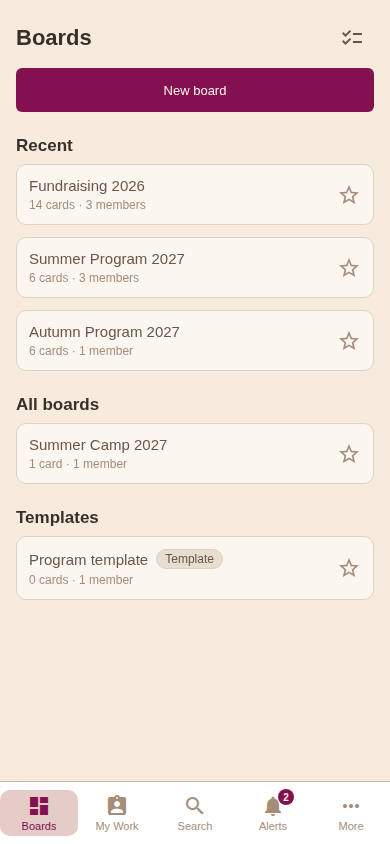
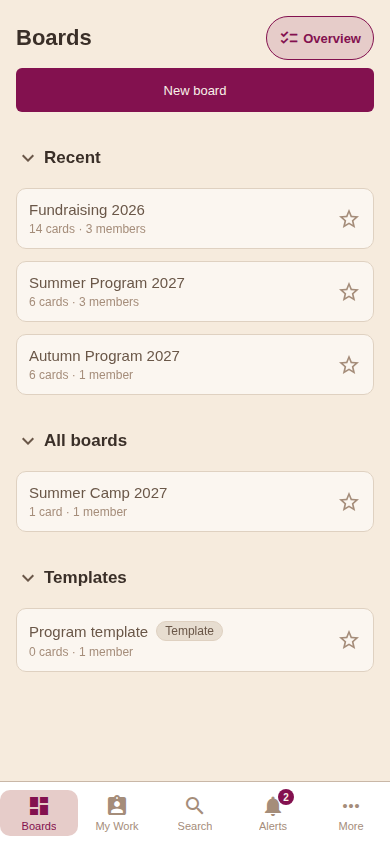
docs: films and pictures for v0.21.0
Every help film re-recorded on main and published (52 cuts, each
file checked against what was served). The manual's pictures retaken;
kept those with a real change: Boards (Overview button, folding
sections), Clone, Lanes (bells, folding), People (#125), the board
settings pages (Lanes and Details rows the old pictures lacked), Help
(the Lanes film) and Stats detail. The rest moved only by dates.

diff --git a/docs/PHASE_STATUS.md b/docs/PHASE_STATUS.md
@@ -59,23 +59,13 @@ When a release changes what an old build gets wrong, raise the version floor
 to it last, once the web, Play and TestFlight have it (`docs/DEPLOY.md`
 § Retiring old builds).
 
-**Owed now: nothing.** v0.20.0 recorded every film (three of them new:
-`lanes`, `details` and `overview`, which carries the legend for the
-overview's marks), retook the manual's pictures and rendered its PDF at its
-release (2026-11-18). A change that moves a screen a film or a picture shows
-adds it here:
+**Owed now: nothing.** v0.21.0 recorded every film (`roles` and `lanes`
+with new narration), retook the manual's pictures and rendered its PDF at
+its release (2026-11-19). A change that moves a screen a film or a picture
+shows adds it here:
 
 | Film or picture | What it lacks |
 |---|---|
-| `lanes` film (a step added for the bell; render its narration); `lanes-*` pictures | The bell beside each lane's count, to watch the lane |
-| `notifications` film | The column-arrival preference now reads "A card arrives in a column or lane you watch" |
-| `roles` film (script rewritten for the ⋮ sheet; narration changed, render it again); `people-*`, `owners-*` pictures | People as compact rows with role chips, changes behind ⋮ (#125) |
-| `overview` film; `boards-*` pictures | The Overview button beside the title, worded (#124) |
-| `board-people` film | The add-someone list's **Filter people** field (#112) |
-| `lanes` film; `lanes-*`, `overview-*` pictures | Lane headings fold, with a chevron, and the collapse/expand-all icons (#115) |
-| `overview` film; `overview-*` pictures | A row's details chevron, and the details it opens (#118) |
-| `boards-phone`, `boards-wide`, `clone-*`, `overview-*` pictures; every film that shows the Boards list (`getting-around`, `new-board`, `clone-board`, `overview`, `signing-in`) | The Boards list's section headings are collapsible, with a chevron (#110) |
-| `lanes` film | A line on a parent waiting for its subtasks before it can go to the finished column, and on a subtask not reopened under a finished parent (#111); no screen changes |
 
 ## What works today (2026-10-16)
 

diff --git a/docs/USER-MANUAL.md b/docs/USER-MANUAL.md
@@ -1296,11 +1296,11 @@ They sign in once with Google → **More → People** → **Approve** their pend
 card.
 
 **…make someone an organizer or admin?** *(admins)*
-**People** → their card → set the **role** → confirm the dialog. This does NOT
+**People** → the **⋮** at the end of their row → the role → confirm the dialog. This does NOT
 decide who runs a board — that lives on the board itself.
 
 **…disable someone who left?** *(admins)*
-**People** → their card → **Active** off → confirm. Their assignments and history
+**People** → the **⋮** at the end of their row → **Disable access** → confirm. Their assignments and history
 stay.
 
 ---
